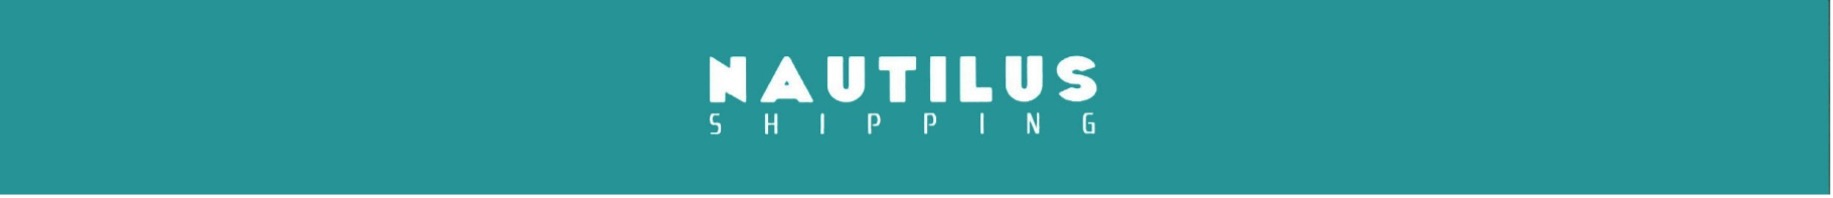
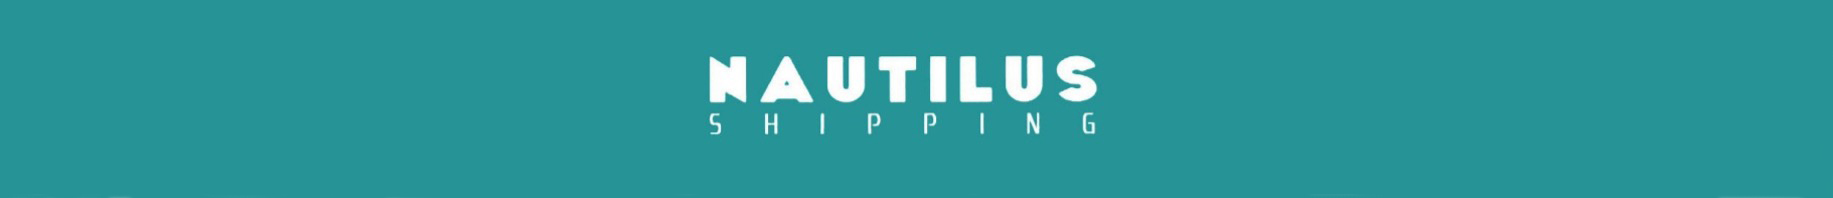
change header image

Changed region(s): [[0.0, 0.0, 1.0, 1.0]]

diff --git a/views/public/html/JSWINFRA-contract.html b/views/public/html/JSWINFRA-contract.html
@@ -117,7 +117,7 @@
 </head>
 
 	<body class="body" style="background-color: #ffffff; padding: 0; -webkit-text-size-adjust: none; text-size-adjust: none;">
-		<div style="width:100%;background-color: #008E9C; text-align: center; height:100px;padding:3px"> <img src="./letter-pad-top.jpg"  style="width:100%; height:90px"></div>
+		<div style="width:100%;background-color: #269396; text-align: center; height:100px;padding:3px"> <img src="./letter-pad-top.jpg"  style="height:90px"></div>
 
 		
 		<table class="nl-container" width="100%" border="0" cellpadding="0" cellspacing="0" role="presentation" style="mso-table-lspace: 0pt; mso-table-rspace: 0pt; background-color: #ffffff; width: 1024px; margin: 0 auto;">
